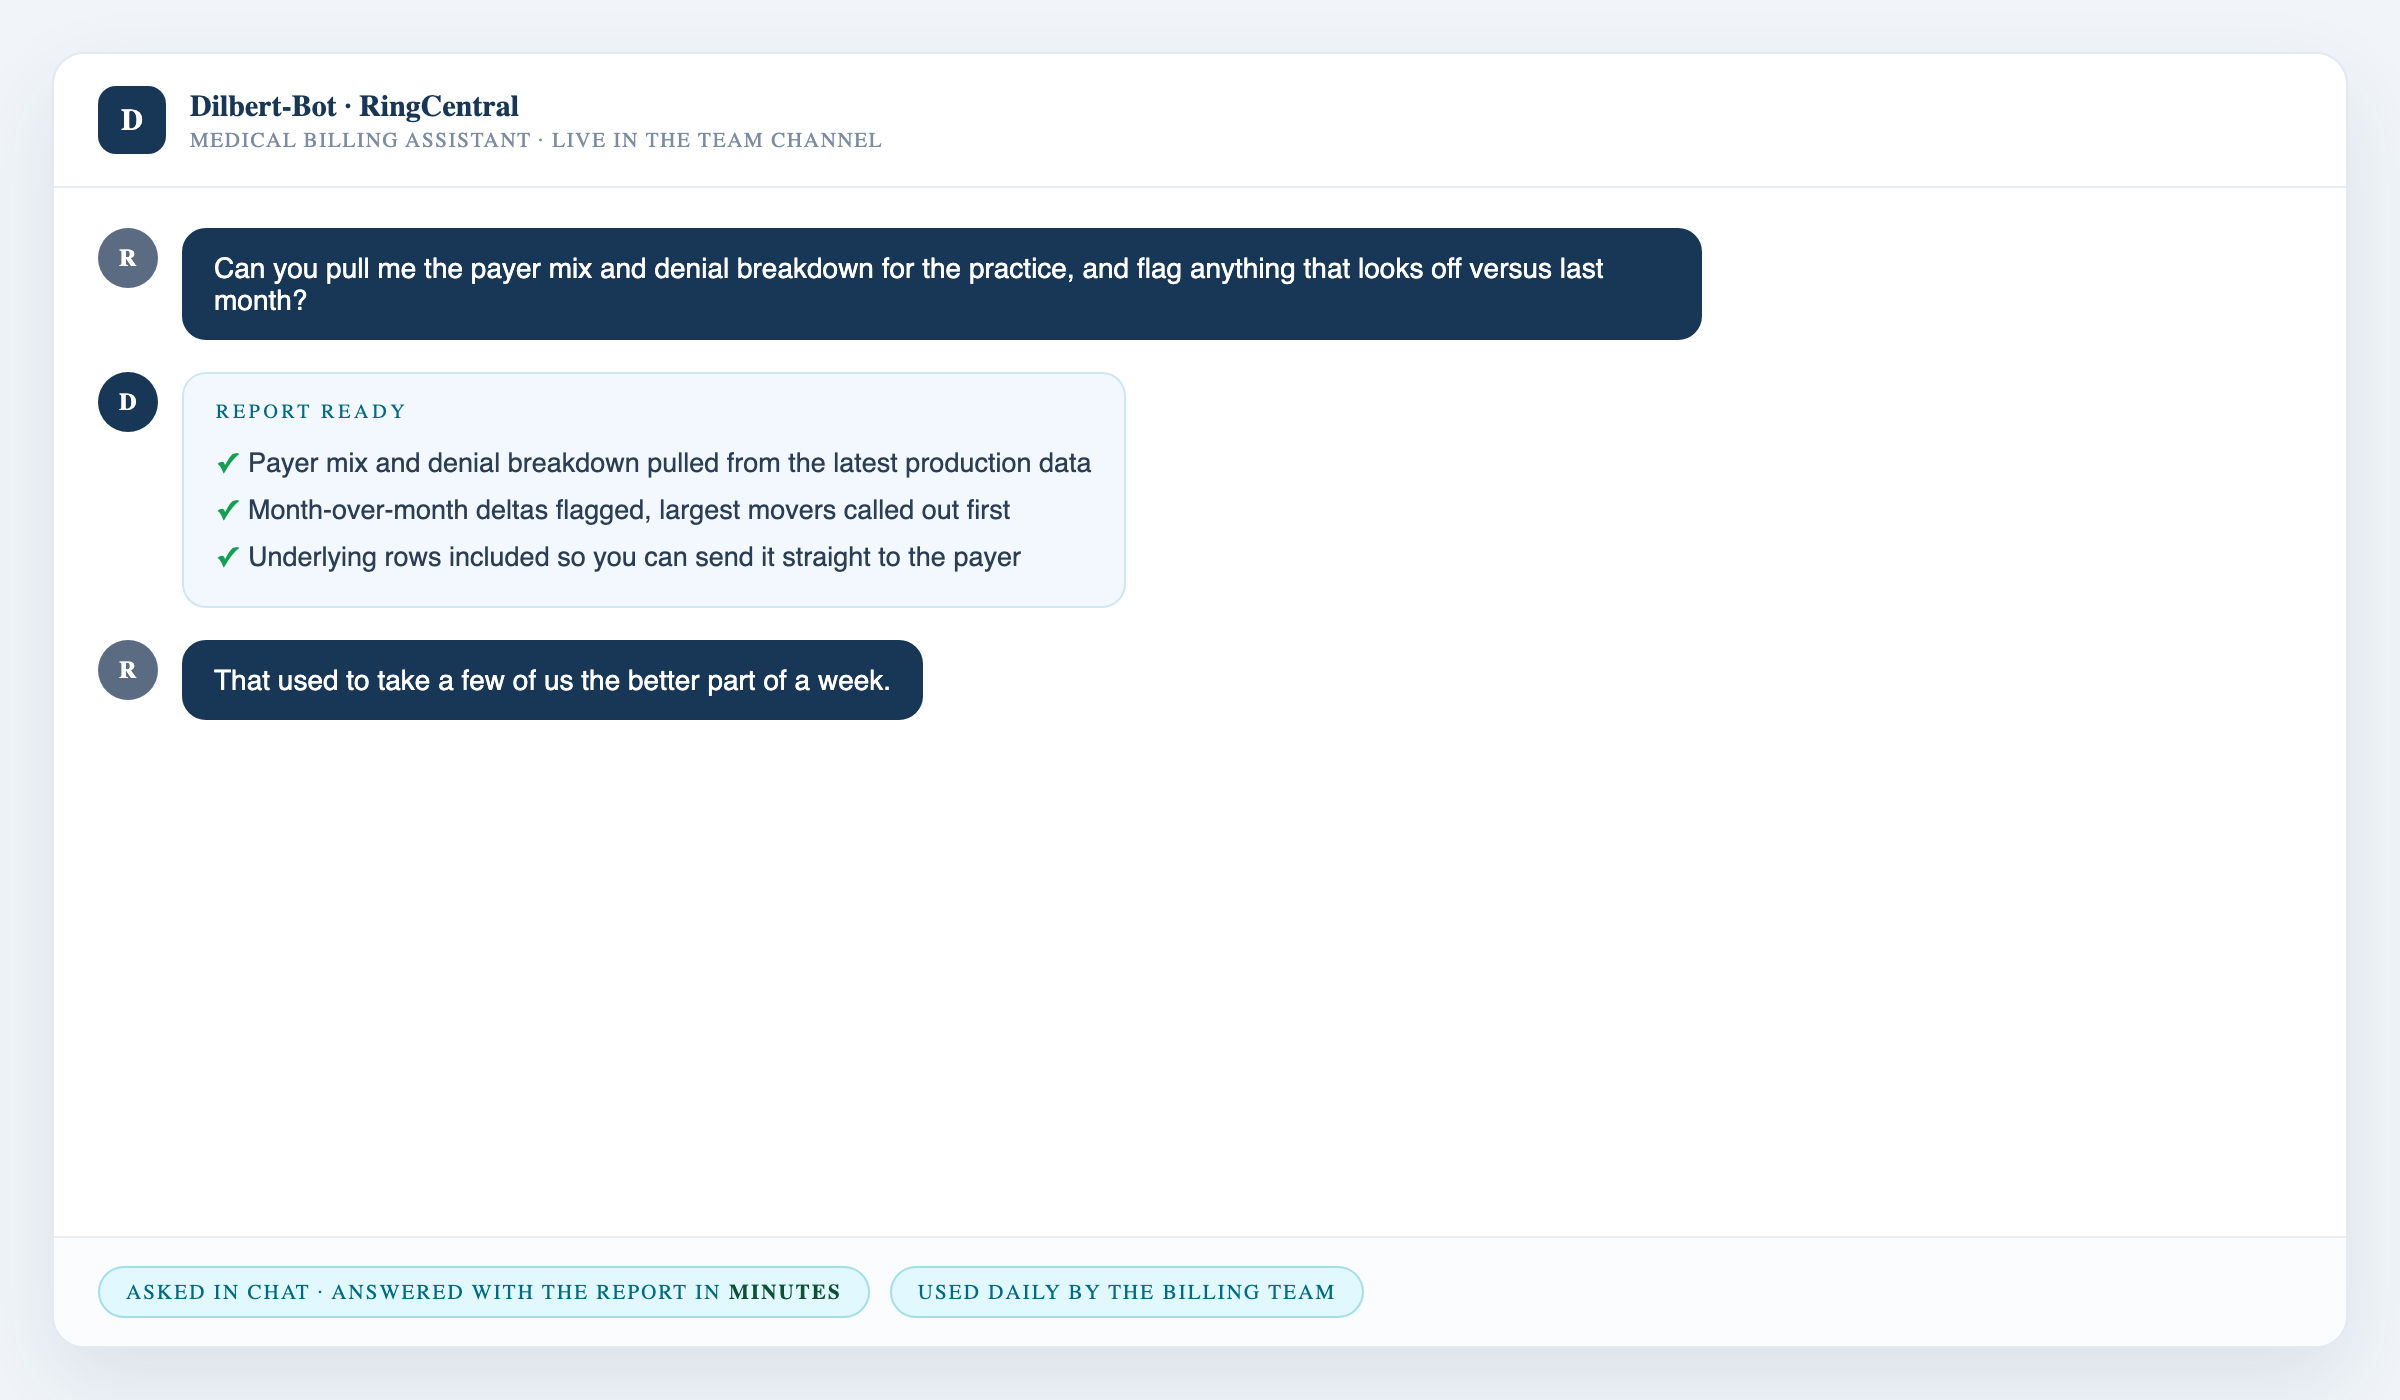
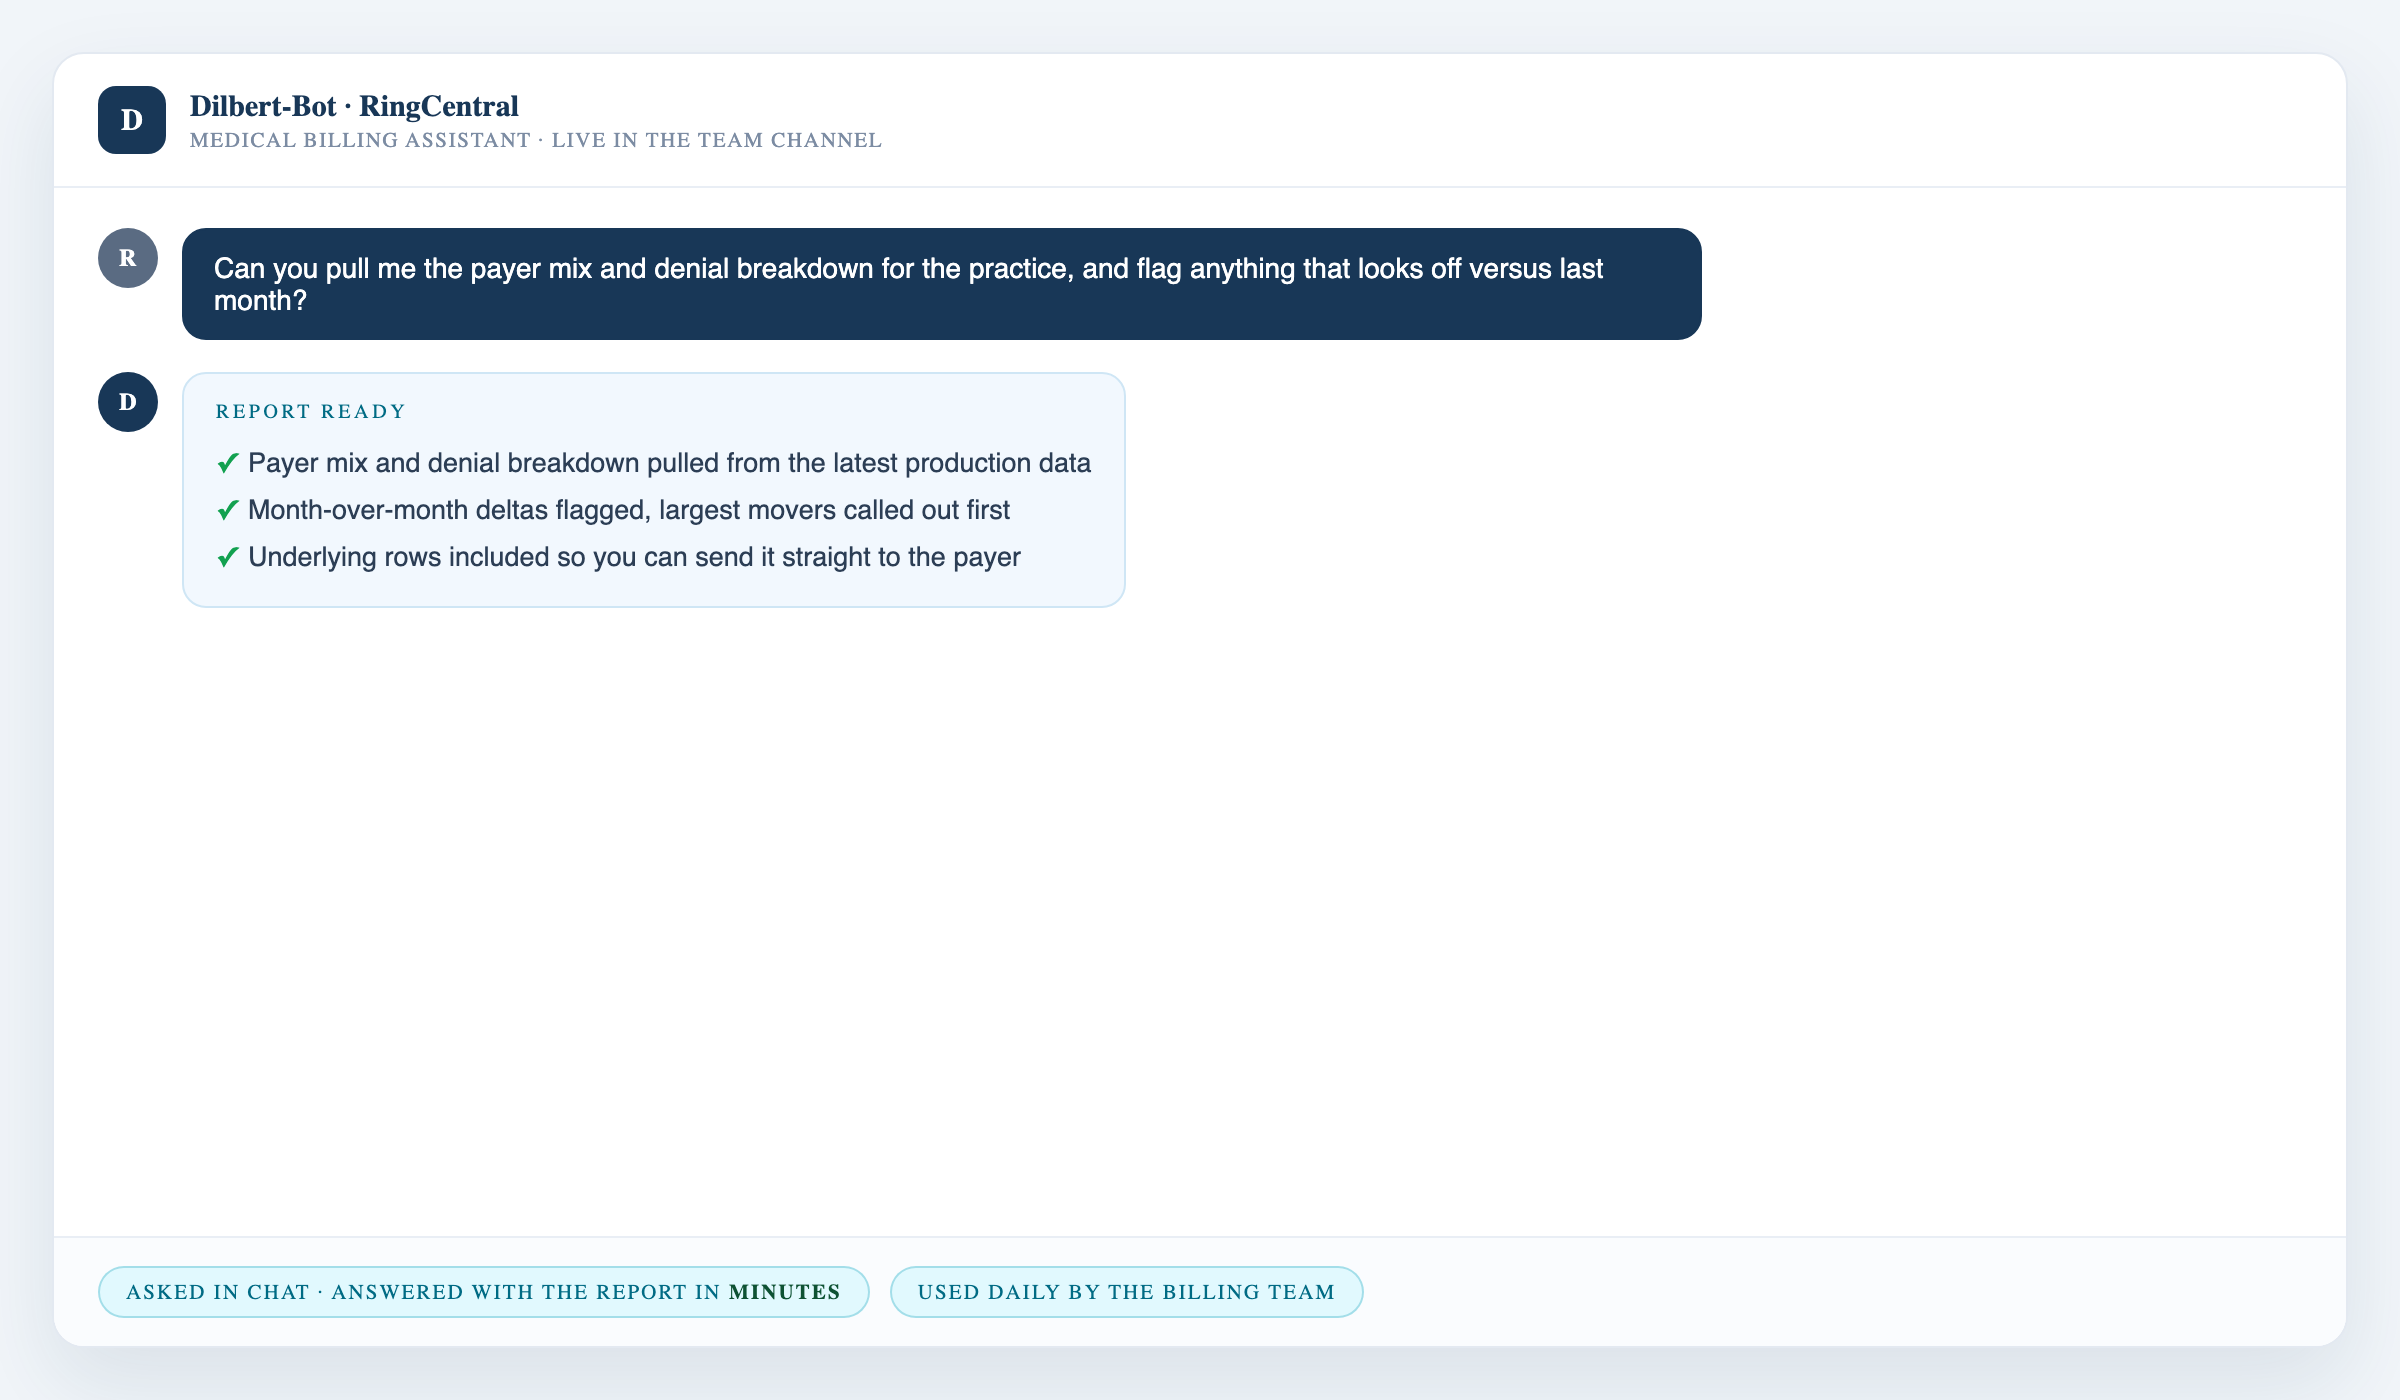
Dilbert-Bot panel: drop the week-long aside; letters figure corrected to 136K

Changed region(s): [[0.0312, 0.43, 0.4062, 0.5221]]

diff --git a/index.html b/index.html
@@ -338,7 +338,7 @@
         <div class="hero-chip">
           <span class="k">$</span> engine.run --nightly --practices 48<br>
           <span class="g">✓</span> 2.9M lines classified<br>
-          <span class="g">✓</span> 113,628 letters drafted<br>
+          <span class="g">✓</span> 135,970 letters drafted<br>
           <span class="g">✓</span> invoices posted to QBO
         </div>
       </div>
@@ -382,7 +382,7 @@
       <div class="metric"><div class="num mono">2.9M</div><div class="lbl">claim lines triaged</div></div>
       <div class="metric"><div class="num mono">$270M</div><div class="lbl">adjustments processed</div></div>
       <div class="metric"><div class="num mono">48</div><div class="lbl">dermatology practices</div></div>
-      <div class="metric"><div class="num mono">113K+</div><div class="lbl">appeal letters auto-drafted</div></div>
+      <div class="metric"><div class="num mono">136K+</div><div class="lbl">appeal letters auto-drafted</div></div>
       <div class="metric"><div class="num mono">100%</div><div class="lbl">appeal coverage, same-day</div></div>
     </div>
   </div>
@@ -426,7 +426,7 @@
           <div class="cs-stats">
             <span class="stat">2.9M lines triaged</span>
             <span class="stat">$270M adjustments</span>
-            <span class="stat">113K letters</span>
+            <span class="stat">136K letters</span>
             <span class="stat">100% appeal coverage</span>
             <span class="stat">6-fig impact in 60 days</span>
           </div>
